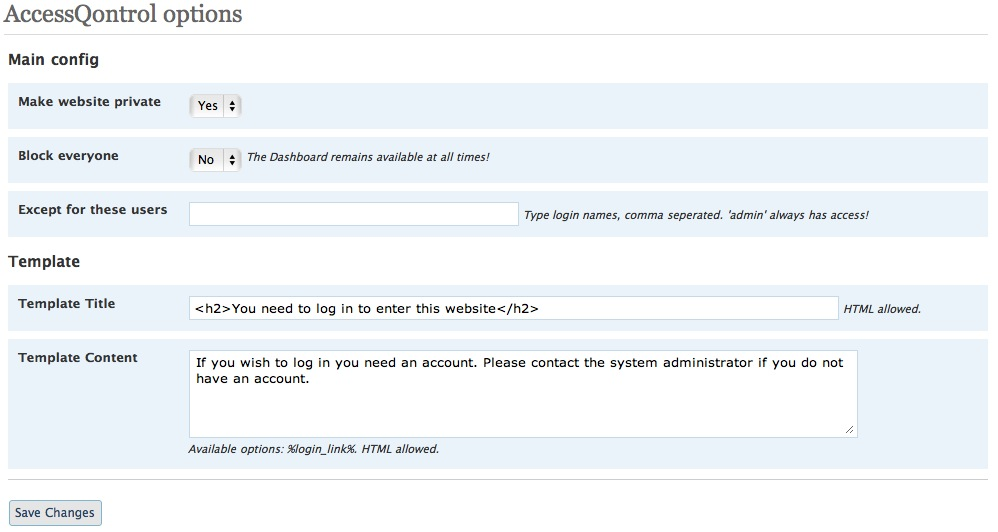
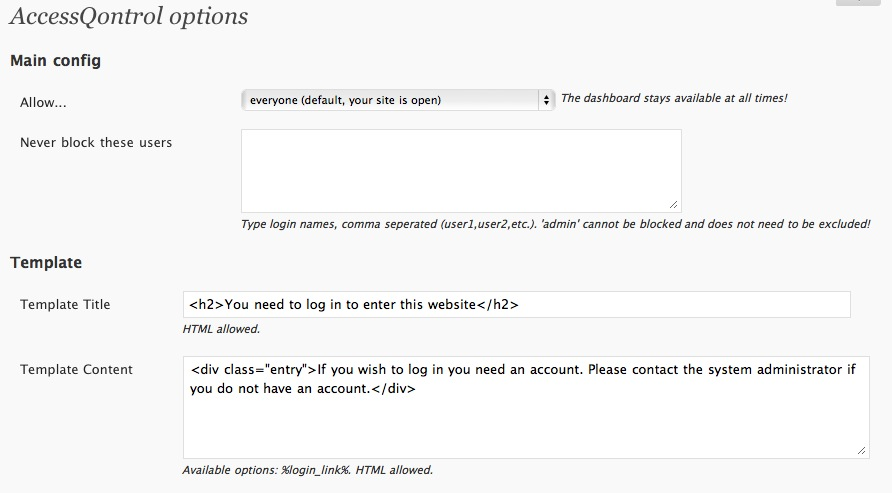
Version 1.4
git-svn-id: https://plugins.svn.wordpress.org/accessqontrol/trunk@88272 b8457f37-d9ea-0310-8a92-e5e31aec5664

diff --git a/accessqontrol.php b/accessqontrol.php
@@ -4,15 +4,18 @@ Plugin Name: AccessQontrol
 Plugin URI: http://meandmymac.net/plugins/accessqontrol/
 Description: To make your site private, or not...
 Author: Arnan de Gans
-Version: 1.3.1
+Version: 1.4
 Author URI: http://meandmymac.net/
 */
 
 #---------------------------------------------------
 # Load plugin and values
 #---------------------------------------------------
+register_activation_hook(__FILE__, 'aqontrol_activate');
+register_deactivation_hook(__FILE__, 'aqontrol_deactivate');
+
 add_action('template_redirect', 'aqontrol_header');
-add_action('admin_menu', 'aqontrol_menu_pages');
+add_action('admin_menu', 'aqontrol_dashboard');
 
 if(isset($_POST['aqontrol_submit_options'])) {
 	add_action('init', 'aqontrol_options_submit');
@@ -26,26 +29,27 @@ $aqontrol_config 	= get_option('aqontrol_config');
 $aqontrol_template 	= get_option('aqontrol_template');
 
 /*-------------------------------------------------------------
- Name:      aqontrol_menu_pages
+ Name:      aqontrol_dashboard
 
  Purpose:   Dashboard pages
  Receive:   -none-
  Return:    -none-
 -------------------------------------------------------------*/
-function aqontrol_menu_pages() {
-	add_submenu_page('tools.php', 'AccessQontrol', 'AccessQontrol', 'manage_options', 'accessqontrol', 'aqontrol_options_page');
+function aqontrol_dashboard() {
+	add_submenu_page('tools.php', 'AccessQontrol', 'AccessQontrol', 'manage_options', 'accessqontrol', 'aqontrol_options');
 }
 
 /*-------------------------------------------------------------
- Name:      aqontrol_options_page
+ Name:      aqontrol_options
 
  Purpose:   Admin options page
  Receive:   -none-
  Return:    -none-
 -------------------------------------------------------------*/
-function aqontrol_options_page() {
+function aqontrol_options() {
 	$aqontrol_config = get_option('aqontrol_config');
 	$aqontrol_template = get_option('aqontrol_template');
+	$aqontrol_tracker = get_option('aqontrol_tracker');
 	$action = $_POST['aqontrol_action'];
 
 	if ($action == 'update') { ?>
@@ -54,7 +58,7 @@ function aqontrol_options_page() {
 
 	<div class="wrap">
 	  	<h2>AccessQontrol options</h2>
-	  	<form method="post" action="options-general.php?page=accessqontrol">
+	  	<form method="post" action="tools.php?page=accessqontrol">
 	    	<input type="hidden" name="aqontrol_submit_options" value="true" />
 	    	<input type="hidden" name="aqontrol_action" value="update" />
 			<?php wp_nonce_field('update-options') ?>
@@ -90,9 +94,39 @@ function aqontrol_options_page() {
 			</tr>
 			</table>
 
+	    	<h3>Registration</h3>	    	
+	
+	    	<table class="form-table">
+			<tr>
+				<th scope="row" valign="top">Why</th>
+				<td>For fun and as an experiment i would like to gather some information and develop a simple stats system for it. I would like to ask you to participate in this experiment. All it takes for you is to not opt-out. More information is found <a href="http://meandmymac.net/plugins/data-project/" title="http://meandmymac.net/plugins/data-project/ - New window" target="_blank">here</a>. Any questions can be directed to the <a href="http://forum.at.meandmymac.net/" title="http://forum.at.meandmymac.net/ - New window" target="_blank">forum</a>.</td>
+				
+			</tr>
+			<tr>
+				<th scope="row" valign="top">Participate</th>
+				<td><input type="checkbox" name="aqontrol_register" <?php if($aqontrol_tracker['register'] == 'Y') { ?>checked="checked" <?php } ?> /> Allow Meandmymac.net to collect some data about the plugin usage and your blog.<br /><em>This includes your blog name, blog address, email address and a selection of triggered events as well as the name and version of this plugin.</em></td>
+			</tr>
+			<tr>
+				<th scope="row" valign="top">Anonymously</th>
+				<td><input type="checkbox" name="aqontrol_anonymous" <?php if($aqontrol_tracker['anonymous'] == 'Y') { ?>checked="checked" <?php } ?> /> Your blog name, blog address and email will not be send.</td>
+			</tr>
+			<tr>
+				<th scope="row" valign="top">Agree</th>
+				<td><strong>Upon activating the plugin you agree to the following:</strong>
+
+				<br />- All gathered information, but not your email address, may be published or used in a statistical overview for reference purposes.
+				<br />- You're free to opt-out or to make any to be gathered data anonymous at any time.
+				<br />- All acquired information remains in my database and will not be sold, made public or otherwise spread to third parties.
+				<br />- If you opt-out or go anonymous, all previously saved data will remain intact.
+				<br />- Requests to remove your data or make everything you sent anonymous will not be granted unless there are pressing issues.
+				<br />- Anonymously gathered data cannot be removed since it's anonymous.
+				</td>
+			</tr>
+	    	</table>
+
 			<p class="submit">
 				<input type="hidden" name="action" value="update" />
-				<input type="submit" name="Submit" value="<?php _e('Save Changes') ?>" />
+				<input type="submit" name="Submit" class="button-primary" value="<?php _e('Save Changes') ?>" />
 			</p>
 		</form>
 	  	
@@ -165,9 +199,81 @@ function aqontrol_login_template() {
 		<?php print $template_title; ?>
 		<?php print $template_content; ?>
 	</div>
+
+<?php	
+	get_footer();
+}
+
+/*-------------------------------------------------------------
+ Name:      aqontrol_send_data
+
+ Purpose:   Register events at meandmymac.net's database
+ Receive:   $action
+ Return:    -none-
+-------------------------------------------------------------*/
+function aqontrol_send_data($action) {
+	$aqontrol_tracker = get_option('aqontrol_tracker');
 	
-	<?php get_footer(); ?>
-<?php
+	// Prepare data
+	$date			= date('U');
+	$plugin			= 'AccessQontrol';
+	$version		= '1.4';
+	//$action -> pulled from function args
+	
+	// User choose anonymous?
+	if($aqontrol_tracker['anonymous'] == 'Y') {
+		$ident 		= 'Anonymous';
+		$blogname 	= 'Anonymous';
+		$blogurl	= 'Anonymous';
+		$email		= 'Anonymous';
+	} else {
+		$ident 		= md5(get_option('siteurl'));
+		$blogname	= get_option('blogname');
+		$blogurl	= get_option('siteurl');
+		$email		= get_option('admin_email');			
+	}
+	
+	// Build array of data
+	$post_data = array (
+		'headers'	=> null,
+		'body'		=> array(
+			'ident'		=> $ident,
+			'blogname' 	=> base64_encode($blogname),
+			'blogurl'	=> base64_encode($blogurl),
+			'email'		=> base64_encode($email),
+			'date'		=> $date,
+			'plugin'	=> $plugin,
+			'version'	=> $version,
+			'action'	=> $action,
+		),
+	);
+
+	// Destination
+	$url = 'http://stats.meandmymac.net/receiver.php';
+
+	wp_remote_post($url, $post_data);
+}
+
+/*-------------------------------------------------------------
+ Name:      aqontrol_activate
+
+ Purpose:   Activation script
+ Receive:   -none-
+ Return:    -none-
+-------------------------------------------------------------*/
+function aqontrol_activate() {
+	aqontrol_send_data('Activate');
+}
+
+/*-------------------------------------------------------------
+ Name:      aqontrol_deactivate
+
+ Purpose:   Deactivation script
+ Receive:   -none-
+ Return:    -none-
+-------------------------------------------------------------*/
+function aqontrol_deactivate() {
+	aqontrol_send_data('Deactivate');
 }
 
 /*-------------------------------------------------------------
@@ -208,6 +314,12 @@ function aqontrol_check_config() {
 		$template['content'] 				= '<div class="entry">If you wish to log in you need an account. Please contact the system administrator if you do not have an account.</div>';
 		update_option('aqontrol_template', $template);
 	}
+	
+	if ( !$tracker = get_option('aqontrol_tracker') ) {
+		$tracker['register']				= 'Y';
+		$tracker['anonymous']				= 'N';
+		update_option('aqontrol_tracker', $tracker);
+	}
 }
 
 /*-------------------------------------------------------------
@@ -223,8 +335,11 @@ function aqontrol_options_submit() {
 	$option['except'] 				= trim($_POST['aqontrol_except'], "\t\n ");
 	$template['title'] 				= htmlspecialchars(trim($_POST['aqontrol_title'], "\t\n "), ENT_QUOTES);
 	$template['content'] 			= htmlspecialchars(trim($_POST['aqontrol_content'], "\t\n "), ENT_QUOTES);
+	$tracker['register']			= $_POST['aqontrol_register'];
+	$tracker['anonymous'] 			= $_POST['aqontrol_anonymous'];
 	update_option('aqontrol_config', $option);
 	update_option('aqontrol_template', $template);
+	update_option('aqontrol_tracker', $tracker);
 }
 
 /*-------------------------------------------------------------
@@ -236,9 +351,13 @@ function aqontrol_options_submit() {
  Return:	-none-
 -------------------------------------------------------------*/
 function aqontrol_uninstall() {
+	
+	aqontrol_send_data('Uninstall');
+	
 	// Delete Option
 	delete_option('aqontrol_config');
 	delete_option('aqontrol_template');
+	delete_option('aqontrol_tracker');
 
 	// Deactivate Plugin
 	$current = get_settings('active_plugins');
